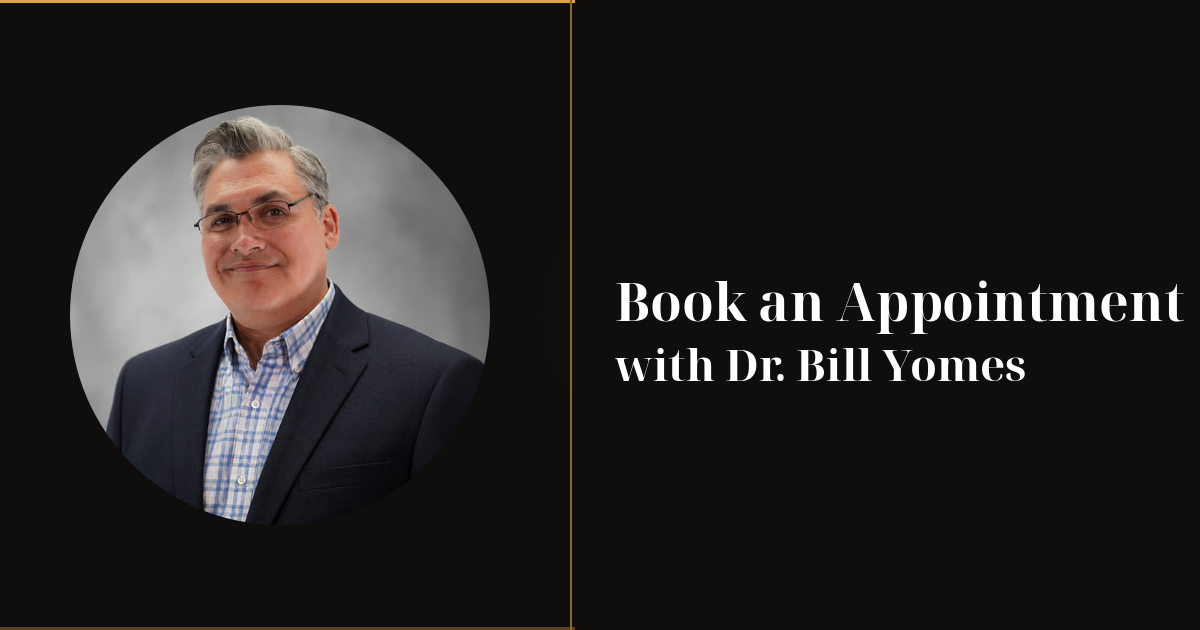
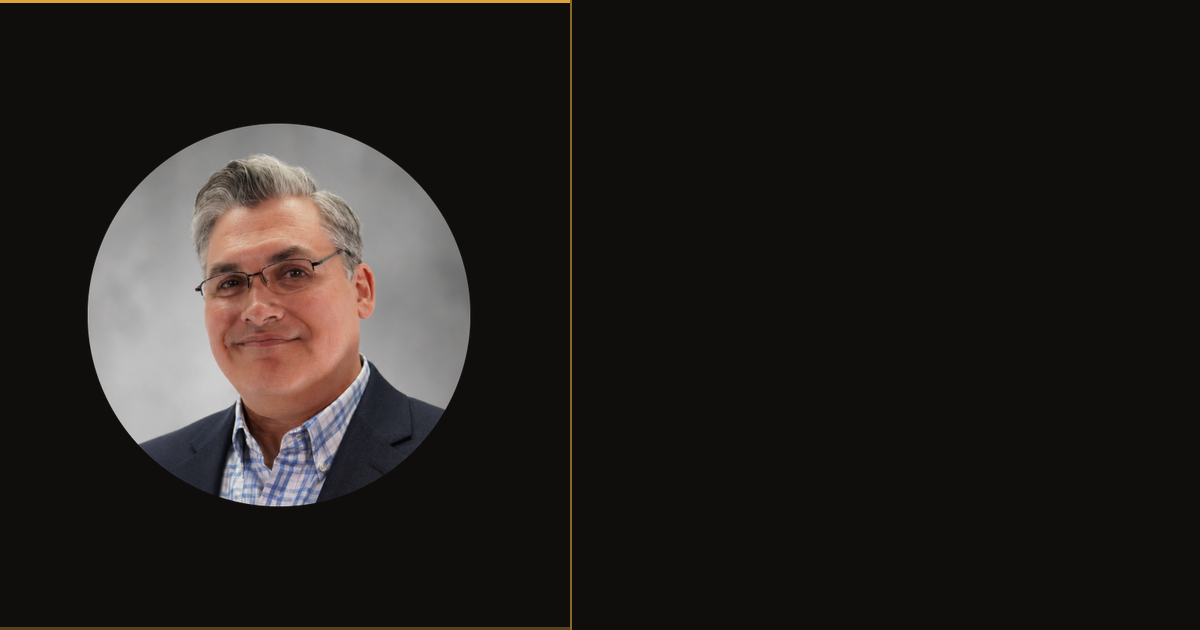
fix: remove text overlay from meet OG image

Changed region(s): [[0.0308, 0.1508, 0.4317, 0.8444], [0.4933, 0.4524, 0.9867, 0.6032]]

diff --git a/scripts/generate-og-meet.py b/scripts/generate-og-meet.py
@@ -1,0 +1,45 @@
+#!/usr/bin/env python3
+"""Generate public/images/og-meet.png — dark bg, circular headshot left, gold divider."""
+
+from pathlib import Path
+from PIL import Image, ImageDraw
+
+ROOT = Path(__file__).parent.parent
+SRC_HEADSHOT = ROOT / "public/images/Bill-CR.png"
+OUT = ROOT / "public/images/og-meet.png"
+
+W, H = 1200, 630
+
+BG = (15, 14, 13)
+GOLD_BRIGHT = (218, 163, 59)   # top border
+GOLD_MID    = (137, 104, 40)   # vertical divider
+GOLD_DIM    = (86,  66,  29)   # bottom border
+
+DIVIDER_X   = 570              # 2px wide: x=570,571
+BORDER_PX   = 3                # top / bottom border thickness
+
+# Headshot: center (279, 315), diameter 420
+HS_CX, HS_CY = 279, 315
+HS_D = 420
+HS_X = HS_CX - HS_D // 2      # 69
+HS_Y = HS_CY - HS_D // 2      # 105
+
+img = Image.new("RGB", (W, H), BG)
+draw = ImageDraw.Draw(img)
+
+# ── top gold border (left half only) ─────────────────────────────────────────
+draw.rectangle([0, 0, DIVIDER_X + 1, BORDER_PX - 1], fill=GOLD_BRIGHT)
+
+# ── bottom gold border (left half only) ──────────────────────────────────────
+draw.rectangle([0, H - BORDER_PX, DIVIDER_X + 1, H - 1], fill=GOLD_DIM)
+
+# ── vertical gold divider ─────────────────────────────────────────────────────
+draw.rectangle([DIVIDER_X, 0, DIVIDER_X + 1, H - 1], fill=GOLD_MID)
+
+# ── circular headshot ────────────────────────────────────────────────────────
+headshot_src = Image.open(SRC_HEADSHOT).convert("RGBA")
+headshot = headshot_src.resize((HS_D, HS_D), Image.LANCZOS)
+img.paste(headshot, (HS_X, HS_Y), mask=headshot.split()[3])
+
+img.save(OUT, "PNG")
+print(f"Saved {OUT}")
